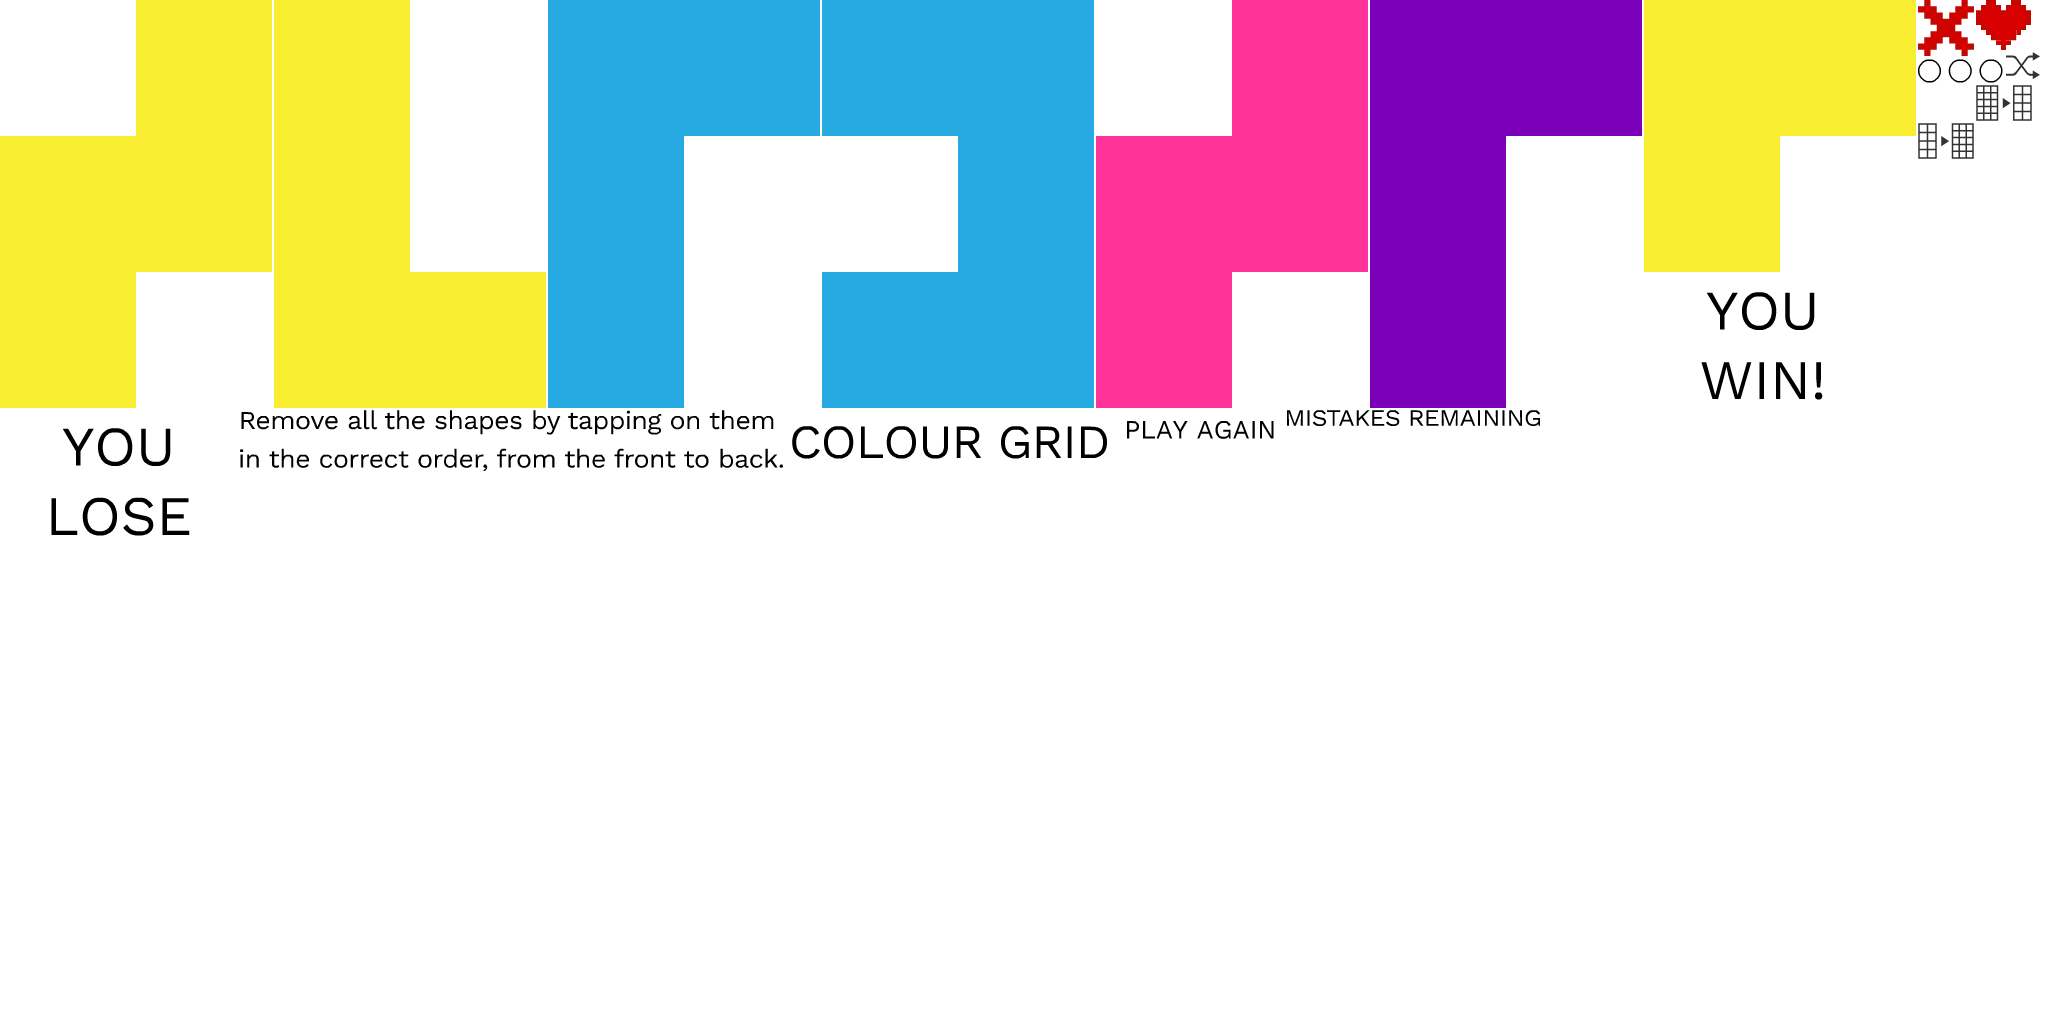
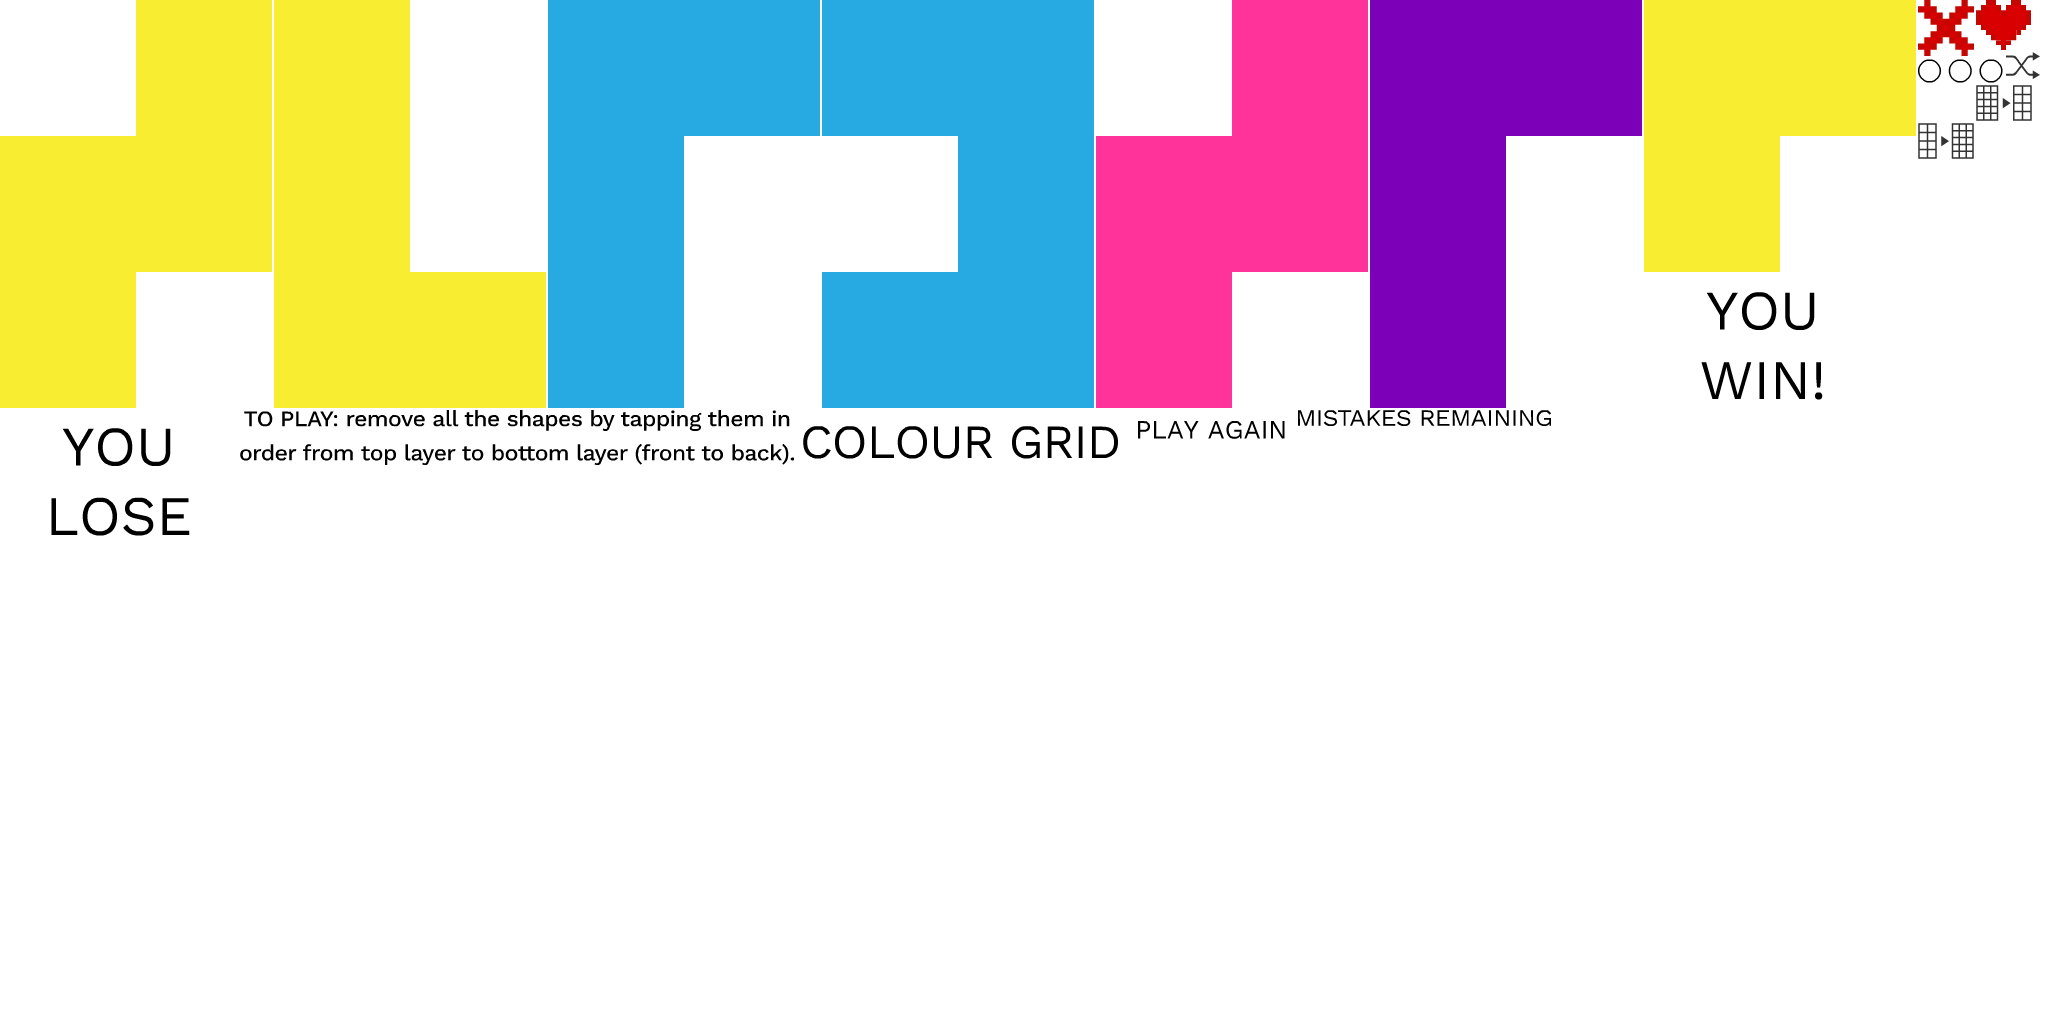
Add files via upload

Changed region(s): [[0.125, 0.375, 0.75, 0.4688]]

diff --git a/ColourGrid_08.js b/ColourGrid_08.js
@@ -3,7 +3,7 @@
 var p; // shortcut to reference prototypes
 var lib={};var ss={};var img={};
 lib.ssMetadata = [
-		{name:"ColourGrid_08_atlas_1", frames: [[1644,274,238,143],[0,410,238,143],[1976,123,54,34],[1918,85,56,36],[2005,52,35,27],[0,0,272,408],[274,0,272,408],[1644,0,272,272],[548,0,272,408],[822,0,272,408],[1096,0,272,408],[1116,410,169,39],[1287,410,253,16],[1976,0,55,50],[1370,0,272,408],[1918,58,85,25],[1918,0,56,56],[1976,85,56,36],[1918,123,56,36],[240,410,543,61],[785,410,329,64]]},
+		{name:"ColourGrid_08_atlas_1", frames: [[1644,274,238,143],[0,410,238,143],[1976,123,54,34],[1918,85,56,36],[2005,52,35,27],[-445357715,-512923345,796091751,-278106301],[-445357715,-512923345,796091751,-278106301],[0,0,272,408],[274,0,272,408],[1644,0,272,272],[548,0,272,408],[822,0,272,408],[1096,0,272,408],[1127,410,169,39],[1298,410,253,16],[1976,0,55,50],[1370,0,272,408],[1918,58,85,25],[1918,0,56,56],[1976,85,56,36],[1918,123,56,36],[240,410,554,55],[796,410,329,64]]},
 		{name:"ColourGrid_08_atlas_2", frames: [[1230,820,544,272],[1230,0,408,408],[1774,410,272,408],[1094,1368,408,272],[1776,820,272,408],[546,1230,272,544],[1364,410,408,408],[1640,0,408,408],[0,820,408,408],[1504,1368,408,272],[410,820,408,408],[820,820,408,408],[1094,1642,408,272],[1230,1094,544,272],[0,0,408,544],[0,1504,272,544],[410,0,408,544],[820,1230,272,544],[0,1230,544,272],[1504,1642,408,272],[0,546,680,272],[820,0,408,544],[682,546,680,272]]},
 		{name:"ColourGrid_08_atlas_3", frames: [[1362,0,544,544],[680,546,544,544],[1226,546,544,544],[0,1226,544,408],[0,680,544,544],[1638,1092,408,544],[0,1636,544,408],[546,1092,544,544],[1092,1092,544,544],[546,1638,544,408],[680,0,680,544],[1092,1638,544,408],[0,0,678,678]]}
 ];
@@ -115,7 +115,7 @@ lib.ssMetadata = [
 
 (lib.CachedBmp_96 = function() {
 	this.initialize(ss["ColourGrid_08_atlas_1"]);
-	this.gotoAndStop(5);
+	this.gotoAndStop(7);
 }).prototype = p = new cjs.Sprite();
 
 
@@ -129,14 +129,14 @@ lib.ssMetadata = [
 
 (lib.CachedBmp_94 = function() {
 	this.initialize(ss["ColourGrid_08_atlas_1"]);
-	this.gotoAndStop(6);
+	this.gotoAndStop(8);
 }).prototype = p = new cjs.Sprite();
 
 
 
 (lib.CachedBmp_93 = function() {
 	this.initialize(ss["ColourGrid_08_atlas_1"]);
-	this.gotoAndStop(7);
+	this.gotoAndStop(9);
 }).prototype = p = new cjs.Sprite();
 
 
@@ -220,7 +220,7 @@ lib.ssMetadata = [
 
 (lib.CachedBmp_81 = function() {
 	this.initialize(ss["ColourGrid_08_atlas_1"]);
-	this.gotoAndStop(8);
+	this.gotoAndStop(10);
 }).prototype = p = new cjs.Sprite();
 
 
@@ -255,14 +255,14 @@ lib.ssMetadata = [
 
 (lib.CachedBmp_76 = function() {
 	this.initialize(ss["ColourGrid_08_atlas_1"]);
-	this.gotoAndStop(9);
+	this.gotoAndStop(11);
 }).prototype = p = new cjs.Sprite();
 
 
 
 (lib.CachedBmp_75 = function() {
 	this.initialize(ss["ColourGrid_08_atlas_1"]);
-	this.gotoAndStop(10);
+	this.gotoAndStop(12);
 }).prototype = p = new cjs.Sprite();
 
 
@@ -311,28 +311,28 @@ lib.ssMetadata = [
 
 (lib.CachedBmp_119 = function() {
 	this.initialize(ss["ColourGrid_08_atlas_1"]);
-	this.gotoAndStop(11);
+	this.gotoAndStop(13);
 }).prototype = p = new cjs.Sprite();
 
 
 
 (lib.CachedBmp_68 = function() {
 	this.initialize(ss["ColourGrid_08_atlas_1"]);
-	this.gotoAndStop(12);
+	this.gotoAndStop(14);
 }).prototype = p = new cjs.Sprite();
 
 
 
 (lib.CachedBmp_108 = function() {
 	this.initialize(ss["ColourGrid_08_atlas_1"]);
-	this.gotoAndStop(13);
+	this.gotoAndStop(15);
 }).prototype = p = new cjs.Sprite();
 
 
 
 (lib.CachedBmp_67 = function() {
 	this.initialize(ss["ColourGrid_08_atlas_1"]);
-	this.gotoAndStop(14);
+	this.gotoAndStop(16);
 }).prototype = p = new cjs.Sprite();
 
 
@@ -381,14 +381,14 @@ lib.ssMetadata = [
 
 (lib.CachedBmp_118 = function() {
 	this.initialize(ss["ColourGrid_08_atlas_1"]);
-	this.gotoAndStop(15);
+	this.gotoAndStop(17);
 }).prototype = p = new cjs.Sprite();
 
 
 
 (lib.CachedBmp_107 = function() {
 	this.initialize(ss["ColourGrid_08_atlas_1"]);
-	this.gotoAndStop(16);
+	this.gotoAndStop(18);
 }).prototype = p = new cjs.Sprite();
 
 
@@ -402,28 +402,28 @@ lib.ssMetadata = [
 
 (lib.CachedBmp_115 = function() {
 	this.initialize(ss["ColourGrid_08_atlas_1"]);
-	this.gotoAndStop(17);
+	this.gotoAndStop(19);
 }).prototype = p = new cjs.Sprite();
 
 
 
 (lib.CachedBmp_109 = function() {
 	this.initialize(ss["ColourGrid_08_atlas_1"]);
-	this.gotoAndStop(18);
+	this.gotoAndStop(20);
 }).prototype = p = new cjs.Sprite();
 
 
 
-(lib.CachedBmp_116 = function() {
+(lib.CachedBmp_121 = function() {
 	this.initialize(ss["ColourGrid_08_atlas_1"]);
-	this.gotoAndStop(19);
+	this.gotoAndStop(21);
 }).prototype = p = new cjs.Sprite();
 
 
 
 (lib.CachedBmp_54 = function() {
 	this.initialize(ss["ColourGrid_08_atlas_1"]);
-	this.gotoAndStop(20);
+	this.gotoAndStop(22);
 }).prototype = p = new cjs.Sprite();
 // helper functions:
 
@@ -2866,8 +2866,8 @@ if (reversed == null) { reversed = false; }
 	this.timeline.addTween(cjs.Tween.get(this.shape).wait(9));
 
 	// Instructions
-	this.instance_1 = new lib.CachedBmp_116();
-	this.instance_1.setTransform(64.15,464.7,0.5,0.5);
+	this.instance_1 = new lib.CachedBmp_121();
+	this.instance_1.setTransform(61.55,466.2,0.5,0.5);
 
 	this.timeline.addTween(cjs.Tween.get(this.instance_1).wait(9));
 
@@ -2958,7 +2958,7 @@ if (reversed == null) { reversed = false; }
 	this._renderFirstFrame();
 
 }).prototype = p = new lib.AnMovieClip();
-p.nominalBounds = new cjs.Rectangle(263.3,331.8,73.39999999999998,163.39999999999998);
+p.nominalBounds = new cjs.Rectangle(261.6,331.8,77,161.89999999999998);
 // library properties:
 lib.properties = {
 	id: 'F9E2F03B988949F3BBD507917F055C6F',

diff --git a/ColourGrid_08.html b/ColourGrid_08.html
@@ -12,7 +12,7 @@
 <meta charset="UTF-8">
 <meta name="authoring-tool" content="Adobe_Animate_CC">
 <meta name="viewport" content="width=device-width, initial-scale=1.0, user-scalable=no">
-<title>ColourGrid_08</title>
+<title>ColourGrid</title>
 <!-- write your code here -->
 <style>
 	#animation_container {
